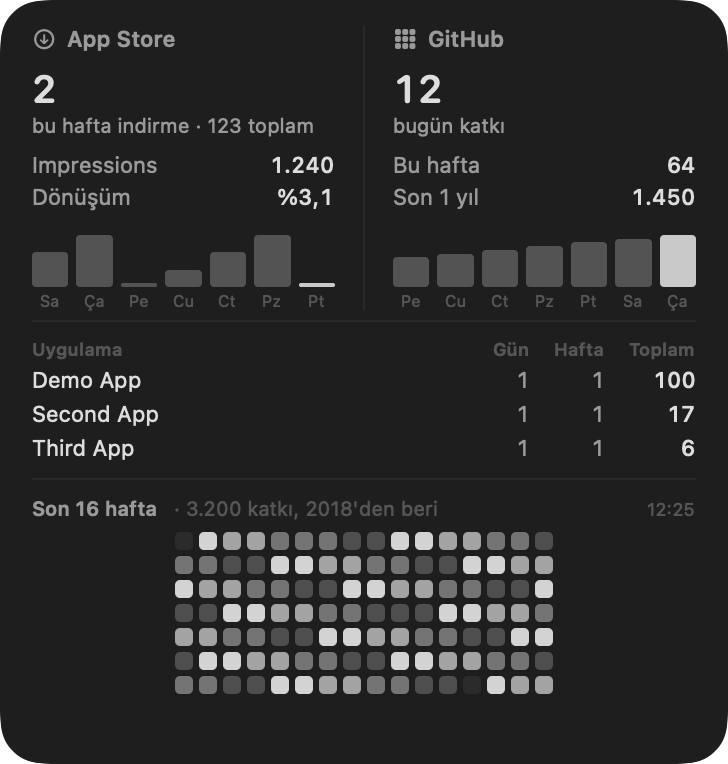
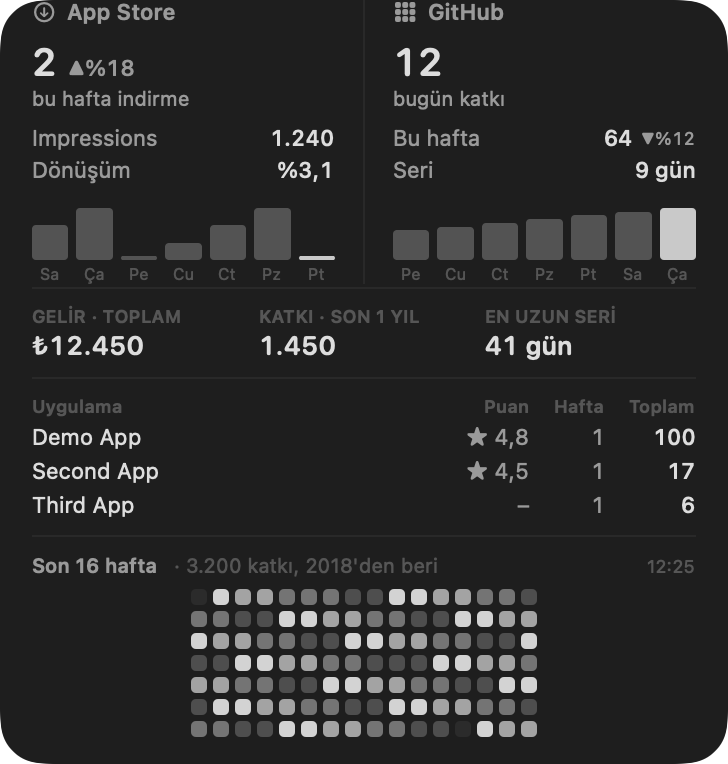
docs: document the new stats and refresh the widget previews

diff --git a/README.md b/README.md
@@ -2,11 +2,16 @@
 
 Your App Store and GitHub numbers in the macOS menu bar and on the desktop.
 
-- **App Store:** new downloads (last report day, this week, all time) per app, plus
-  redownloads, updates, in-app purchases, impressions, product page views and
+- **App Store:** new downloads (last report day, this week, all time) per app with a
+  ▲▼ change against the same days of last week, redownloads, updates, in-app purchases,
+  revenue in your currency, star ratings, top countries, the latest written reviews
+  (with a notification when a new one arrives), impressions, product page views and
   conversion rate.
-- **GitHub:** contributions today, this week, last year and all time (the numbers on
-  your profile overview), a 7-day chart and a contribution heat grid.
+- **GitHub:** contributions today, this week (▲▼ vs last week), last year and all time
+  (the numbers on your profile overview), current and longest streak, the repos you
+  committed to most this week, a 7-day chart and a contribution heat grid.
+- **Resilient:** if an API is down, the last good numbers stay on screen with the time
+  they were fetched.
 
 Everything runs locally. Data comes straight from Apple's App Store Connect API and
 GitHub's GraphQL API. Nothing is sent anywhere else.
@@ -31,7 +36,8 @@ Install Dev Stats from https://github.com/tolgazorlu/devstats on my Mac.
 3. Run scripts/install.sh. If Xcode is missing, run it with --no-widget.
 4. Walk me through creating an App Store Connect API key (README section "App Store
    Connect key"). Ask me only for: Issuer ID, Key ID, Vendor Number and the path of
-   the downloaded .p8 file. Then run scripts/configure.py with those values.
+   the downloaded .p8 file, and which currency revenue should be shown in (e.g. TRY,
+   USD, EUR). Then run scripts/configure.py with those values.
 5. Security rules: never print, cat, copy into chat, or commit the .p8 file or
    ~/.config/asc-menubar/*. Never ask me to paste the key's contents.
 6. If my key has the Admin role, run scripts/request_reports.py once, then tell me
@@ -80,7 +86,8 @@ SwiftBar folder), builds the widget app into `~/Applications/DevStats.app` and o
   --issuer-id 00000000-0000-0000-0000-000000000000 \
   --key-id ABC123DEFG \
   --vendor-number 12345678 \
-  --p8 ~/Downloads/AuthKey_ABC123DEFG.p8
+  --p8 ~/Downloads/AuthKey_ABC123DEFG.p8 \
+  --currency TRY
 
 # once, with the Admin key, for impressions and conversion rate:
 .venv/bin/python scripts/request_reports.py
@@ -93,11 +100,15 @@ writes `config.json` next to it. To switch keys, run it again with the new value
 
 **Menu bar:** one item showing App Store downloads this week and GitHub contributions
 today. Click it for the tables. Hover an app for its details and a link to App Store
-Connect. The plugin refreshes every 30 minutes, **Yenile** refreshes now.
+Connect, its rating per country, its top countries and its reviews. The plugin
+refreshes every 30 minutes, **Yenile** refreshes now. New reviews arrive as a macOS
+notification from SwiftBar (allow SwiftBar notifications in System Settings).
 
 **Desktop widget:** right-click the desktop > **Edit Widgets** > search **Dev Stats**.
-Three sizes: small (two headline numbers), medium (both columns with 7-day bars),
-large (adds the top apps table and a 25-week contribution grid). Monochrome, follows
+Three sizes: small (two headline numbers with change and streak), medium (both
+columns with 7-day bars), large (adds revenue or rating, contributions last year,
+longest streak, the top apps with their rating, and a 25-week contribution grid).
+It shows "eski veri" when the plugin has not refreshed for over an hour. Monochrome, follows
 light and dark mode. The widget reads the snapshot the menu bar plugin writes, so the
 plugin has to be running.
 
@@ -109,7 +120,13 @@ plugin has to be running.
 | Downloads (all time) | Sales reports, yearly + monthly + daily | Finished periods are cached forever, so later runs are fast. |
 | Impressions, page views | Analytics Reports, "App Store Discovery and Engagement Standard" | First data arrives 1-2 days after `request_reports.py`. History back to 2024 via the one-time snapshot. |
 | Conversion rate | (first-time downloads + redownloads) / unique impressions | Same definition as App Store Connect. Unique counts are summed over report rows, so treat it as an approximation. |
-| GitHub contributions | GraphQL `contributionsCollection` | "Last year" matches the profile overview. Commit count covers public repos; private work shows up as private contributions. Days are UTC. |
+| ▲▼ change | same weekdays of the previous week | This week so far vs Monday up to the same weekday last week, so a Wednesday is not compared with a full week. |
+| Revenue | Sales reports `Developer Proceeds` x units | Proceeds are after Apple's commission, in the payout currency, converted to your display currency with today's rate from [open.er-api.com](https://www.exchangerate-api.com). App Store Connect uses each month's rate, so all-time revenue is an approximation. |
+| Ratings | public `itunes.apple.com/lookup`, no key | Ratings are per storefront; every storefront the app has downloads in is queried and combined, weighted by count. Cached 12 hours. |
+| Reviews | `GET /v1/apps/{id}/customerReviews` | Written reviews only. The first run records existing ones silently; afterwards each new review notifies once. |
+| GitHub contributions | GraphQL `contributionsCollection` | "Last year" matches the profile overview. Commit count covers public repos; private work shows up as private contributions. |
+| Streaks | per-year contribution calendars since the account was created | Finished years are cached. Today without contributions does not break the streak until the day is over. |
+| GitHub days | UTC | GitHub buckets contributions by UTC day and the API has no timezone option, so "today" flips at 03:00 in Türkiye. |
 
 Apple hides rows with very small counts in analytics reports for privacy, so
 impressions for a tiny app can read lower than reality.
@@ -127,9 +144,13 @@ impressions for a tiny app can read lower than reality.
 | Path | What |
 | --- | --- |
 | `asc.py` | App Store Connect client (JWT, paging, report download) |
-| `appstore.py` | Downloads from Sales reports |
+| `appstore.py` | Downloads, revenue, countries and weekly change from Sales reports |
+| `fx.py` | Exchange rates for revenue (cached daily) |
 | `analytics.py` | Impressions, page views, conversion from Analytics reports |
-| `github.py` | GitHub contributions |
+| `ratings.py` | Star ratings per storefront |
+| `reviews.py` | Latest written reviews, new-review detection |
+| `github.py` | GitHub contributions, streaks, top repos, rate limit |
+| `tests/` | Behavior tests with fixtures, no network |
 | `devstats.py` | Menu bar output + snapshot for the widget |
 | `plugins/devstats.30m.sh` | SwiftBar entry point (refresh interval is in the file name) |
 | `widget/` | SwiftUI app + WidgetKit extension (generated with xcodegen) |
@@ -146,8 +167,21 @@ The widget is sandboxed and only has read access to `~/.config/asc-menubar/`.
 - **Impressions say "hazırlanıyor":** Apple has not published the first analytics
   instance yet. Wait 1-2 days after `request_reports.py`.
 - **Widget says "Veri yok":** the plugin has not written a snapshot yet. Click Yenile.
+- **"Yorumlar: HTTP 403":** the API key's role cannot read customer reviews. Everything
+  else keeps working; use a key with a role that has access to reviews if you want them.
+- **No notification for a new review:** System Settings > Notifications > SwiftBar >
+  allow.
 - **Widget not in the gallery:** open `~/Applications/DevStats.app` once, then check
   `pluginkit -m | grep devstats`.
+
+## Development
+
+```sh
+.venv/bin/python -m unittest discover -s tests   # data layer, no network
+plugins/devstats.30m.sh                          # real run, prints the menu
+widget/build/Build/Products/Release/DevStats.app/Contents/MacOS/DevStats --render --sample
+                                                 # PNG previews of every widget size
+```
 
 ## Uninstall
 
